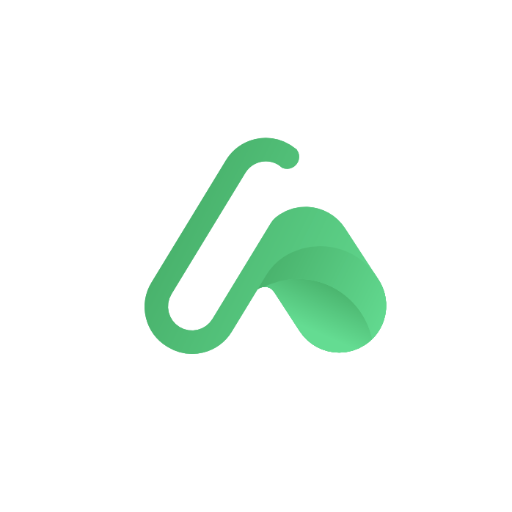
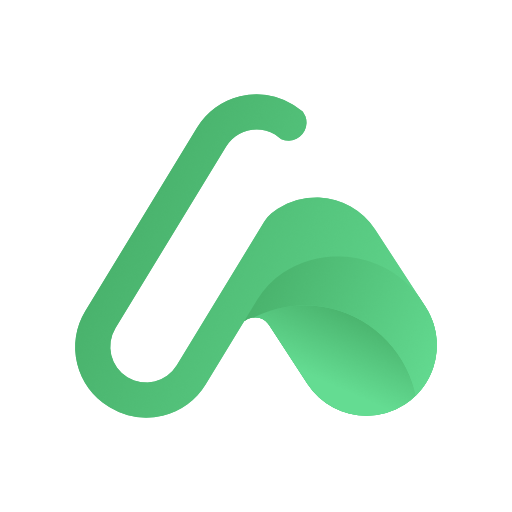
Updates

Changed region(s): [[0.125, 0.1875, 0.625, 0.8438], [0.4062, 0.375, 0.875, 0.8125]]

diff --git a/sw.js b/sw.js
@@ -1,1 +1,1 @@
-if(!self.define){let e,n={};const i=(i,s)=>(i=new URL(i+".js",s).href,n[i]||new Promise(n=>{if("document"in self){const e=document.createElement("script");e.src=i,e.onload=n,document.head.appendChild(e)}else e=i,importScripts(i),n()}).then(()=>{let e=n[i];if(!e)throw new Error(`Module ${i} didn’t register its module`);return e}));self.define=(s,c)=>{const o=e||("document"in self?document.currentScript.src:"")||location.href;if(n[o])return;let a={};const r=e=>i(e,o),t={module:{uri:o},exports:a,require:r};n[o]=Promise.all(s.map(e=>t[e]||r(e))).then(e=>(c(...e),a))}}define(["./workbox-1d305bb8"],function(e){"use strict";self.skipWaiting(),e.clientsClaim(),e.precacheAndRoute([{url:"web-app-manifest-512x512.png",revision:"ca63b39ca254e5edc2d6ef01bb45fc5d"},{url:"web-app-manifest-192x192.png",revision:"32435a1aa1d46385680f3212066011d0"},{url:"index.html",revision:"140b1ce769cd2ff177e96b230545660a"},{url:"favicon.svg",revision:"91f2bccc02acc1a8eb0999b0566e4881"},{url:"favicon.ico",revision:"7c9e38217e2b6ceadd0c369933543b0d"},{url:"favicon-96x96.png",revision:"cd733c60e0d3df7603dd5ca13b8e196f"},{url:"apple-touch-icon.png",revision:"ccb7a9c1c0f3ee8fbf348fe26aae1223"},{url:"backup/web-app-manifest-512x512.png",revision:"44c126625fe4efd2354b39090cde243c"},{url:"backup/web-app-manifest-192x192.png",revision:"b08b69cbee1df6a526844b9d1e090c91"},{url:"assets/workbox-window.prod.es5-vqzQaGvo.js",revision:null},{url:"assets/Logo-D6BOQNyY.png",revision:null},{url:"assets/index-CnIswH4I.css",revision:null},{url:"assets/index-BofAHZAL.js",revision:null},{url:"favicon.ico",revision:"7c9e38217e2b6ceadd0c369933543b0d"},{url:"favicon.svg",revision:"91f2bccc02acc1a8eb0999b0566e4881"},{url:"favicon-96x96.png",revision:"cd733c60e0d3df7603dd5ca13b8e196f"},{url:"apple-touch-icon.png",revision:"ccb7a9c1c0f3ee8fbf348fe26aae1223"},{url:"manifest.webmanifest",revision:"188360c116751e8b7a34f151079c2ecd"}],{}),e.cleanupOutdatedCaches(),e.registerRoute(new e.NavigationRoute(e.createHandlerBoundToURL("index.html"))),e.registerRoute(/^https:\/\/fonts\.googleapis\.com\/.*/i,new e.CacheFirst({cacheName:"google-fonts-cache",plugins:[new e.ExpirationPlugin({maxEntries:10,maxAgeSeconds:31536e3}),new e.CacheableResponsePlugin({statuses:[0,200]})]}),"GET"),e.registerRoute(/^https:\/\/fonts\.gstatic\.com\/.*/i,new e.CacheFirst({cacheName:"google-fonts-webfonts",plugins:[new e.ExpirationPlugin({maxEntries:30,maxAgeSeconds:31536e3}),new e.CacheableResponsePlugin({statuses:[0,200]})]}),"GET")});
+if(!self.define){let e,n={};const c=(c,i)=>(c=new URL(c+".js",i).href,n[c]||new Promise(n=>{if("document"in self){const e=document.createElement("script");e.src=c,e.onload=n,document.head.appendChild(e)}else e=c,importScripts(c),n()}).then(()=>{let e=n[c];if(!e)throw new Error(`Module ${c} didn’t register its module`);return e}));self.define=(i,s)=>{const o=e||("document"in self?document.currentScript.src:"")||location.href;if(n[o])return;let a={};const r=e=>c(e,o),t={module:{uri:o},exports:a,require:r};n[o]=Promise.all(i.map(e=>t[e]||r(e))).then(e=>(s(...e),a))}}define(["./workbox-1d305bb8"],function(e){"use strict";self.skipWaiting(),e.clientsClaim(),e.precacheAndRoute([{url:"web-app-manifest-512x512.png",revision:"622e41ee0bc778b4c3fc640fbd44396d"},{url:"web-app-manifest-192x192.png",revision:"32435a1aa1d46385680f3212066011d0"},{url:"index.html",revision:"140b1ce769cd2ff177e96b230545660a"},{url:"favicon.svg",revision:"91f2bccc02acc1a8eb0999b0566e4881"},{url:"favicon.ico",revision:"7c9e38217e2b6ceadd0c369933543b0d"},{url:"favicon-96x96.png",revision:"cd733c60e0d3df7603dd5ca13b8e196f"},{url:"apple-touch-icon.png",revision:"ccb7a9c1c0f3ee8fbf348fe26aae1223"},{url:"backup/web-app-manifest-512x512.png",revision:"44c126625fe4efd2354b39090cde243c"},{url:"backup/web-app-manifest-512x512 (2).png",revision:"ca63b39ca254e5edc2d6ef01bb45fc5d"},{url:"backup/web-app-manifest-192x192.png",revision:"b08b69cbee1df6a526844b9d1e090c91"},{url:"assets/workbox-window.prod.es5-vqzQaGvo.js",revision:null},{url:"assets/Logo-D6BOQNyY.png",revision:null},{url:"assets/index-CnIswH4I.css",revision:null},{url:"assets/index-BofAHZAL.js",revision:null},{url:"favicon.ico",revision:"7c9e38217e2b6ceadd0c369933543b0d"},{url:"favicon.svg",revision:"91f2bccc02acc1a8eb0999b0566e4881"},{url:"favicon-96x96.png",revision:"cd733c60e0d3df7603dd5ca13b8e196f"},{url:"apple-touch-icon.png",revision:"ccb7a9c1c0f3ee8fbf348fe26aae1223"},{url:"manifest.webmanifest",revision:"188360c116751e8b7a34f151079c2ecd"}],{}),e.cleanupOutdatedCaches(),e.registerRoute(new e.NavigationRoute(e.createHandlerBoundToURL("index.html"))),e.registerRoute(/^https:\/\/fonts\.googleapis\.com\/.*/i,new e.CacheFirst({cacheName:"google-fonts-cache",plugins:[new e.ExpirationPlugin({maxEntries:10,maxAgeSeconds:31536e3}),new e.CacheableResponsePlugin({statuses:[0,200]})]}),"GET"),e.registerRoute(/^https:\/\/fonts\.gstatic\.com\/.*/i,new e.CacheFirst({cacheName:"google-fonts-webfonts",plugins:[new e.ExpirationPlugin({maxEntries:30,maxAgeSeconds:31536e3}),new e.CacheableResponsePlugin({statuses:[0,200]})]}),"GET")});
